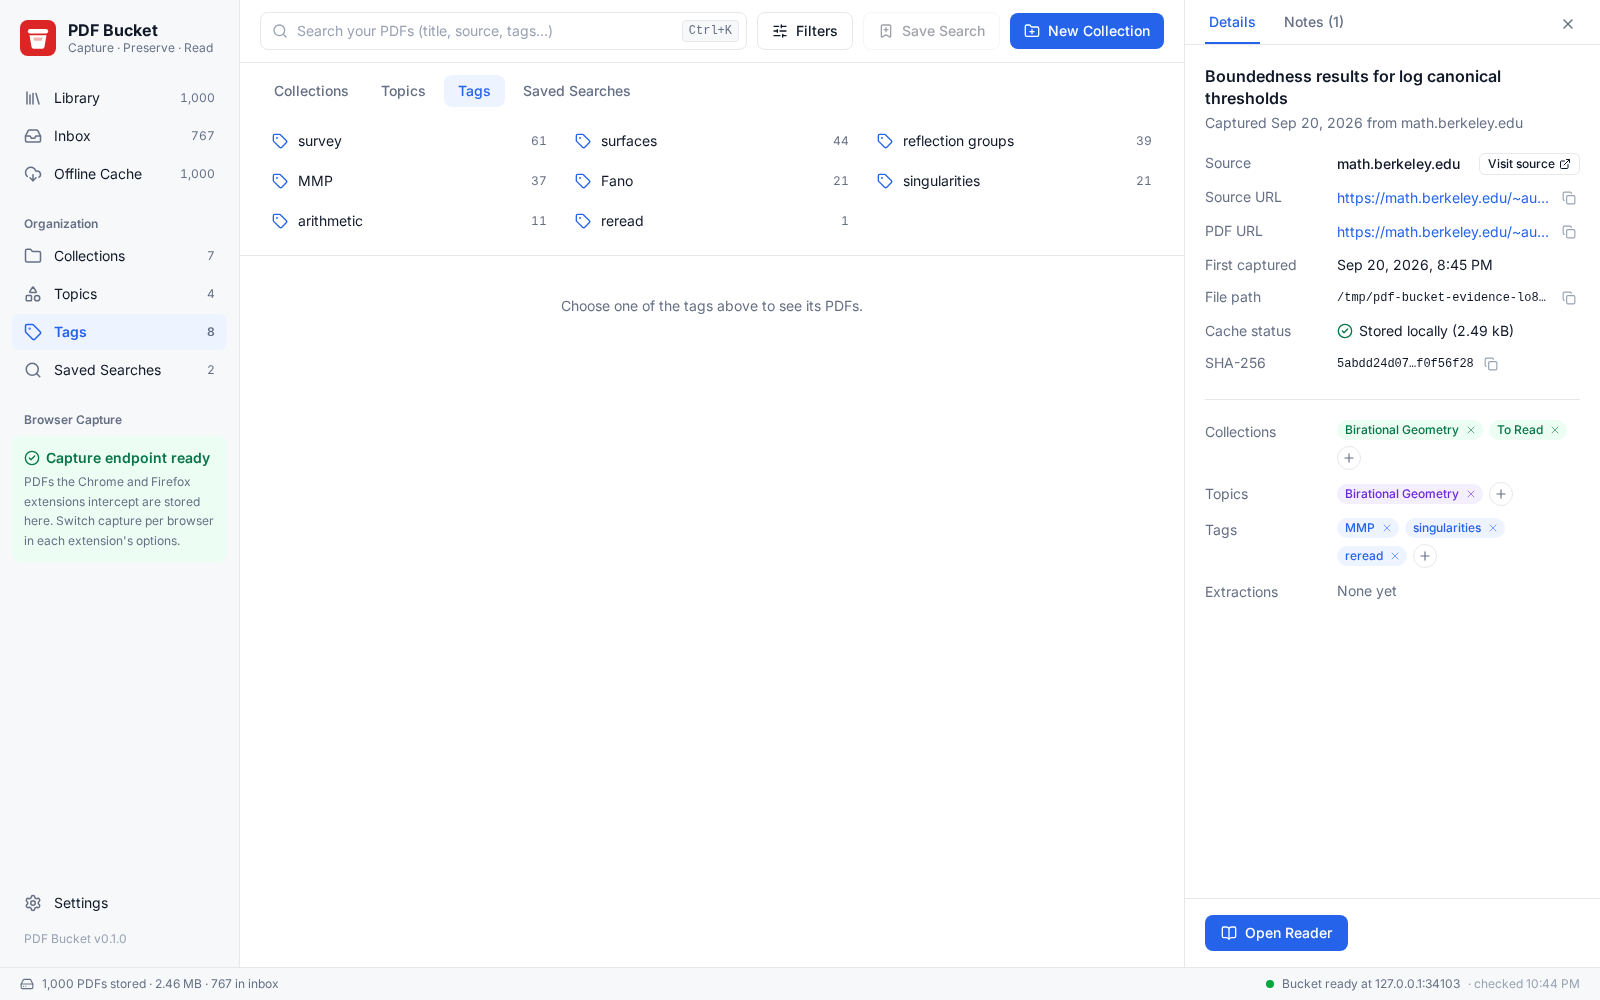
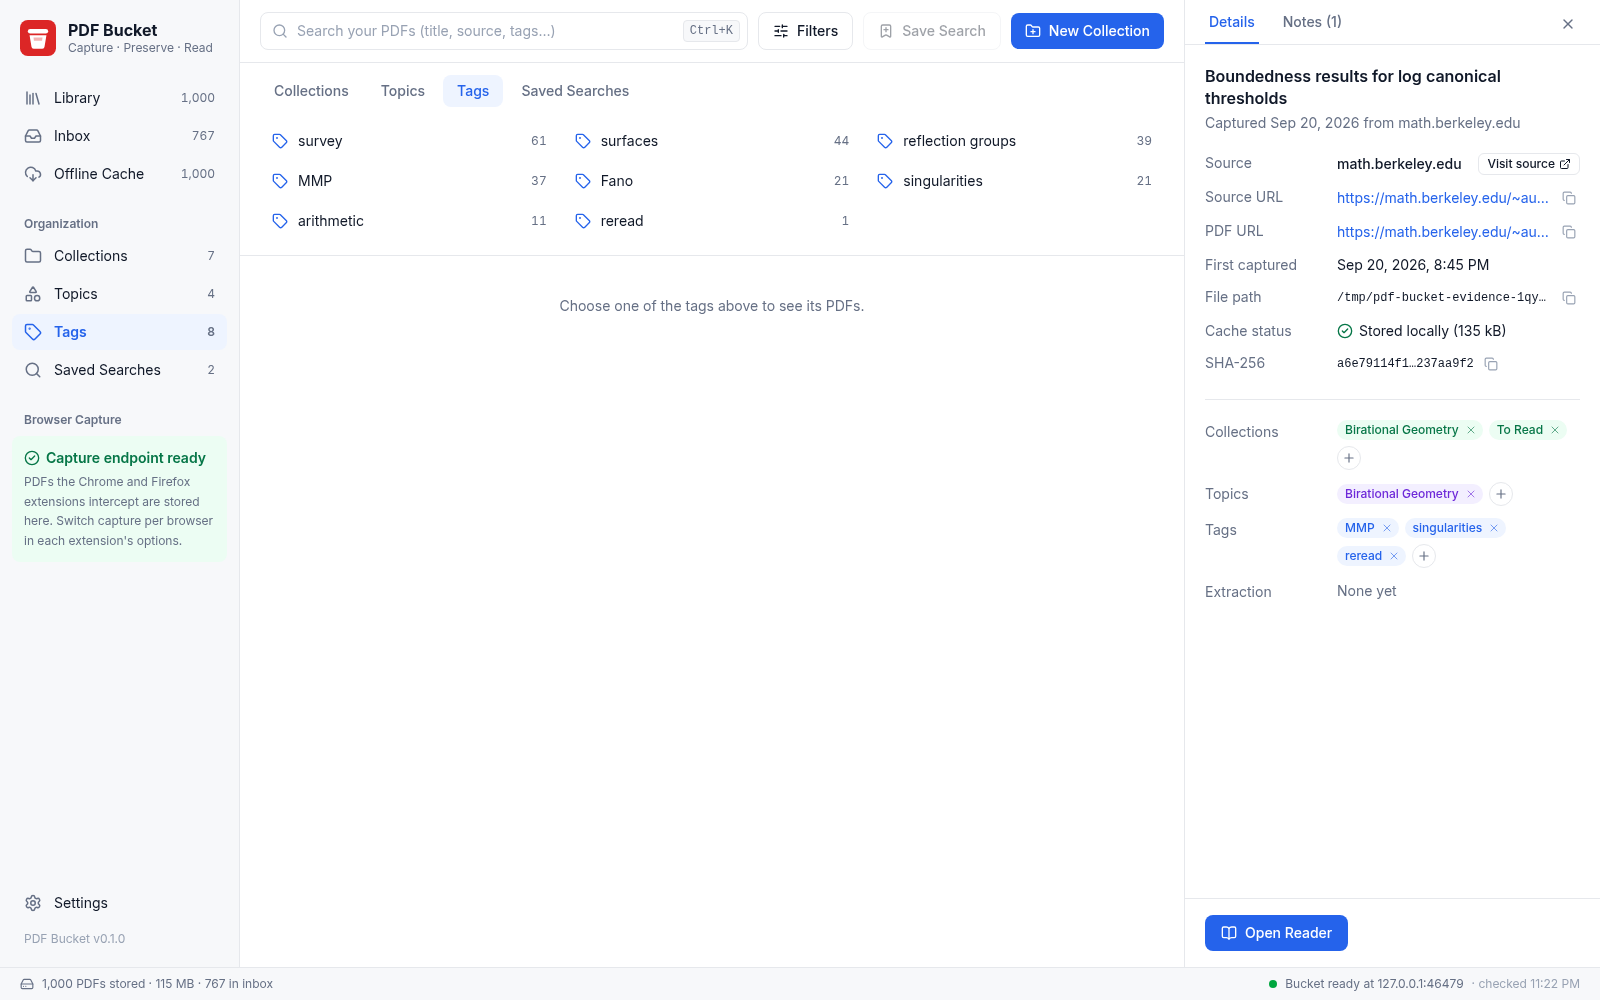
test(evidence): seed from committed fixture PDFs, use the system Chromium
The 1,000-item seed stores copies of the four committed fixture PDFs,
each under its own document title, instead of generated one-page
PDFs, and the screenshot run drives the system Chromium instead of
downloading Playwright's build, so the evidence run needs nothing from
the network, the user's Zotero or browser profiles. The run also lays
the committed MinerU output beside one item as its extraction and
screenshots the inspector listing it.

docs/m2.md records the procedure, the load and filter times with the
fixture-sized store (first library read 1.12 s, cached 0.017 s, 1,000
rows in 0.56 s, filter 0.14 s), the extraction contract and the new
screenshots.

Refs #7

diff --git a/scripts/library_screenshots.py b/scripts/library_screenshots.py
@@ -6,10 +6,11 @@
 
 Builds three bucket roots in a temporary directory: an empty one, one holding a PDF without
 embedded provenance (the error state), and one seeded with 1,000 PDFs through the real store
-(`scripts/seed_bucket.py`). Serves each with `src/server/serveBucket.ts` on a free port, files
-part of the seeded library through the library API, then captures each screen in Playwright's
-Chromium and the library and reader in the system WebKitGTK (the engine of the desktop window)
-through WebKitWebDriver on a headless Weston. Prints the load and filter timings as JSON.
+(`scripts/seed_bucket.py`, from committed fixture PDFs). Serves each with
+`src/server/serveBucket.ts` on a free port, files part of the seeded library through the library
+API, lays the committed MinerU output beside one item as its extraction, then captures each
+screen in the system Chromium driven by Playwright, and the library and reader in the system
+WebKitGTK (the engine of the desktop window) through WebKitWebDriver on a headless Weston. Prints the load and filter timings as JSON.
 """
 
 from __future__ import annotations
@@ -18,7 +19,6 @@ import json
 import os
 import shutil
 import subprocess
-import sys
 import tempfile
 import time
 from contextlib import ExitStack
@@ -137,7 +137,30 @@ def file_library(origin: str, items: list[dict[str, object]]) -> dict[str, str]:
             "search": {"query": "survey lectures", "matchCase": False, "matchType": "any", "searchFields": fields},
         },
     )
-    return {"birational": birational, "saved": str(flips_search["id"]), "reader": str(recent[0]["id"]), "title": str(recent[0]["title"])}
+    return {
+        "birational": birational,
+        "saved": str(flips_search["id"]),
+        "reader": str(recent[0]["id"]),
+        "title": str(recent[0]["title"]),
+        "extracted": str(recent[1]["id"]),
+    }
+
+
+def place_extraction(root: Path, key: str) -> None:
+    """Lay out the committed MinerU output as the extraction runner does: artifacts first,
+    the Markdown last."""
+    shipped = REPO / "tests/fixtures/mineru-ten-page-notes"
+    (root / f"{key}.extraction").mkdir()
+    for name in ("content_list.json", "layout.json"):
+        shutil.copy(shipped / name, root / f"{key}.extraction" / name)
+    shutil.copy(shipped / "full.md", root / f"{key}.md")
+
+
+def system_chromium() -> str:
+    """The system Chromium, so the run downloads no browser."""
+    path = shutil.which("chromium")
+    assert path is not None, "chromium is not on PATH"
+    return path
 
 
 def shoot(page: Page, out: Path, name: str) -> None:
@@ -147,7 +170,7 @@ def shoot(page: Page, out: Path, name: str) -> None:
 def chromium_screens(out: Path, origins: dict[str, str], filed: dict[str, str]) -> dict[str, float]:
     timings: dict[str, float] = {}
     with sync_playwright() as playwright:
-        browser = playwright.chromium.launch()
+        browser = playwright.chromium.launch(executable_path=system_chromium())
         page = browser.new_page(viewport=VIEWPORT)
 
         page.goto(origins["empty"])
@@ -175,6 +198,11 @@ def chromium_screens(out: Path, origins: dict[str, str], filed: dict[str, str]) 
         page.get_by_role("row").filter(has_text=filed["title"]).first.click()
         page.get_by_role("complementary", name="Item details").wait_for()
         shoot(page, out, "library-populated")
+
+        page.get_by_role("row").nth(2).click()
+        page.get_by_role("complementary", name="Item details").get_by_text("content_list.json").wait_for()
+        shoot(page, out, "inspector-extraction")
+        page.get_by_role("row").filter(has_text=filed["title"]).first.click()
 
         page.get_by_role("tab", name="Notes").click()
         shoot(page, out, "inspector-notes")
@@ -289,7 +317,6 @@ def webkit_screens(stack: ExitStack, out: Path, origins: dict[str, str], filed: 
 def main(out: Path) -> None:
     """Write the screenshots into OUT and print the timings."""
     out.mkdir(parents=True, exist_ok=True)
-    subprocess.run([sys.executable, "-m", "playwright", "install", "chromium"], check=True)
     with ExitStack() as stack:
         scratch = Path(stack.enter_context(tempfile.TemporaryDirectory(prefix="pdf-bucket-evidence-")))
         roots = {name: scratch / name for name in ("empty", "broken", "seeded")}
@@ -317,6 +344,7 @@ def main(out: Path) -> None:
         assert isinstance(items, list)
         assert len(items) == SEEDED_COUNT, f"seeded library lists {len(items)} items"
         filed = file_library(origins["seeded"], items)
+        place_extraction(roots["seeded"], filed["extracted"])
 
         timings = {
             "seed_1000_pdfs_s": seed_seconds,

diff --git a/scripts/seed_bucket.py b/scripts/seed_bucket.py
@@ -1,9 +1,10 @@
-"""Seed a bucket root with COUNT generated PDFs, each stored through the real store.
+"""Seed a bucket root with COUNT PDFs made from committed fixtures, stored through the real store.
 
 Run inside the project environment: `uv run --locked python scripts/seed_bucket.py ROOT COUNT`.
-Every PDF is a one-page document whose text is its title; its provenance (PDF URL, source
-page, capture time, original hash) is embedded by `pdfbucket.store.store_pdf`, exactly as a
-browser capture would. Titles, sources and capture times are synthetic and deterministic.
+Every PDF is a copy of a committed fixture PDF (tests/fixtures) with its own document title;
+its provenance (PDF URL, source page, capture time, original hash) is embedded by
+`pdfbucket.store.store_pdf`, exactly as a browser capture would. Titles, sources and capture
+times are synthetic and deterministic.
 """
 
 from __future__ import annotations
@@ -58,30 +59,23 @@ SOURCES = [
     ("https://www.numdam.org/item/{id}/", "https://www.numdam.org/item/{id}.pdf"),
 ]
 NEWEST_CAPTURE = datetime(2026, 9, 20, 14, 30, tzinfo=UTC)
+FIXTURES = Path(__file__).resolve().parents[1] / "tests" / "fixtures"
+# Committed PDFs the seeded items are copies of; nothing is downloaded.
+FIXTURE_PDFS = ["lecture-notes.pdf", "ten-page-notes.pdf", "long-notes.pdf", "problem-set.pdf"]
 
 
-def title_page(title: str) -> bytes:
-    """A one-page PDF whose content stream sets TITLE in Helvetica."""
-    pdf = pikepdf.new()
-    escaped = title.replace("\\", "\\\\").replace("(", "\\(").replace(")", "\\)")
-    content = f"BT /F1 20 Tf 72 700 Td ({escaped}) Tj ET".encode("latin-1", "replace")
-    font = pikepdf.Dictionary(Type=pikepdf.Name.Font, Subtype=pikepdf.Name.Type1, BaseFont=pikepdf.Name.Helvetica)
-    page = pikepdf.Page(
-        pikepdf.Dictionary(
-            Type=pikepdf.Name.Page,
-            MediaBox=[0, 0, 612, 792],
-            Resources=pikepdf.Dictionary(Font=pikepdf.Dictionary(F1=font)),
-            Contents=pdf.make_stream(content),
-        )
-    )
-    pdf.pages.append(page)
+def titled_copy(fixture: bytes, title: str) -> bytes:
+    """The committed fixture PDF with TITLE as its document title, so each seeded PDF has its own bytes."""
     output = BytesIO()
-    pdf.save(output)
+    with pikepdf.open(BytesIO(fixture)) as pdf:
+        pdf.docinfo["/Title"] = title
+        pdf.save(output)
     return output.getvalue()
 
 
 def seed(root: Path, count: int) -> None:
     rng = random.Random(8)
+    fixtures = [(FIXTURES / name).read_bytes() for name in FIXTURE_PDFS]
     root.mkdir(parents=True, exist_ok=True)
     for index in range(count):
         title = rng.choice(CLAIMS).format(subject=rng.choice(SUBJECTS), n=rng.randint(2, 24))
@@ -93,7 +87,8 @@ def seed(root: Path, count: int) -> None:
             title_hint=title,
         )
         captured_at = NEWEST_CAPTURE - timedelta(hours=index * 7 + rng.randint(0, 6), minutes=rng.randint(0, 59))
-        store_pdf(root, title_page(title), request, f"{identifier}.pdf", captured_at)
+        fixture = fixtures[index % len(fixtures)]
+        store_pdf(root, titled_copy(fixture, title), request, f"{identifier}.pdf", captured_at)
 
 
 if __name__ == "__main__":

diff --git a/docs/m2.md b/docs/m2.md
@@ -1,6 +1,6 @@
 # M2 evidence: library UI over the bucket store
 
-Recorded on 2026-09-23 on the development workstation (Arch Linux, WebKitGTK 2.52.6, Playwright Chromium build 1243).
+Recorded on 2026-09-23 on the development workstation (Arch Linux, WebKitGTK 2.52.6, Chromium 153 driven by Playwright).
 
 ## How the evidence is produced
 
@@ -10,30 +10,32 @@ $ just library-screenshots
 
 The recipe builds the web bundle, then `scripts/library_screenshots.py`:
 
-1. makes three bucket roots in a temporary directory: an empty one; one holding `hand-copied.pdf`, a PDF with no embedded provenance; and one seeded with 1,000 PDFs by `scripts/seed_bucket.py`, which stores generated one-page PDFs through `pdfbucket.store.store_pdf`, so each carries embedded provenance exactly as a capture does;
+1. makes three bucket roots in a temporary directory: an empty one; one holding `hand-copied.pdf`, a PDF with no embedded provenance; and one seeded with 1,000 PDFs by `scripts/seed_bucket.py`, which stores copies of the committed fixture PDFs in `tests/fixtures`, each under its own title, through `pdfbucket.store.store_pdf`, so each carries embedded provenance exactly as a capture does (nothing is downloaded);
 
 2. serves each root with `src/server/serveBucket.ts` on a free port (never the configured 8770);
 
 3. files the 300 most recent seeded items through the library API: six collections (two of them subcollections), four topics, seven tags, two notes, two saved searches;
 
-4. screenshots every state in Playwright's Chromium at 1600x1000, the mockups' size;
+4. lays the committed MinerU output (`tests/fixtures/mineru-ten-page-notes`) beside one item the way the extraction runner does, artifacts first and the Markdown last;
 
-5. screenshots the library and the reader in the system WebKitGTK, the engine of the Tauri window, through `WebKitWebDriver` on a headless Weston display of 1400x900, the window's default size.
+5. screenshots every state in the system Chromium, driven by Playwright, at 1600x1000, the mockups' size;
+
+6. screenshots the library and the reader in the system WebKitGTK, the engine of the Tauri window, through `WebKitWebDriver` on a headless Weston display of 1400x900, the window's default size.
 
 Playwright's own WebKit build is not used: its Linux build needs Ubuntu 24.04 libraries (ICU 74, `libxml2.so.2`, flite) that Arch does not ship.
 
 ## 1,000-item load and filter times
 
-Seconds, from the run that produced the screenshots below and from a run on an idle machine.
+Seconds, from the run that produced the screenshots below (the seeded PDFs are copies of the four committed fixtures, 1 to 210 pages, 115 MB in all).
 
-| Measurement | Screenshot run | Idle run |
-| --- | --- | --- |
-| Seed 1,000 PDFs through the store | 4.25 | 1.59 |
-| `pdfbucket list` over 1,000 PDFs (one process) | 1.14 | 0.37 |
-| `GET /api/library`, first request (index built from the files) | 1.18 | 0.38 |
-| `GET /api/library`, second request (index cached, files re-stat'ed) | 0.020 | 0.013 |
-| Window navigation to all 1,000 rows in the table | 0.46 | 0.38 |
-| Typing a two-word filter until the table shows the matches | 0.16 | 0.08 |
+| Measurement | Seconds |
+| --- | --- |
+| Seed 1,000 PDFs through the store | 6.41 |
+| `pdfbucket list` over 1,000 PDFs (one process) | 0.97 |
+| `GET /api/library`, first request (index built from the files) | 1.12 |
+| `GET /api/library`, second request (index cached, files re-stat'ed) | 0.017 |
+| Window navigation to all 1,000 rows in the table | 0.56 |
+| Typing a two-word filter until the table shows the matches | 0.14 |
 
 The first request reads provenance out of every PDF; later requests re-read only PDFs whose modification time or size changed.
 Filtering is the fzf filter over the item array in the browser; there is no search index.
@@ -67,6 +69,11 @@ Differences are listed under [Mockup elements not reproduced](#mockup-elements-n
 Filtering, the filters dialog, the notes tab, adding a tag from the inspector:
 
 ![Filtered library](m2/library-filtered.png) ![Filters dialog](m2/filters.png) ![Notes tab](m2/inspector-notes.png) ![A tag added from the inspector](m2/inspector-tag-added.png)
+
+An item's extraction is derived from the files beside its PDF, never stored in the filing: `<key>.md` is the Markdown and marks a complete extraction, `<key>.extraction/` holds the further artifacts, and no Markdown means no extraction.
+The inspector lists the Markdown and each artifact with its size:
+
+![Extraction listed in the inspector](m2/inspector-extraction.png)
 
 The command palette, items and commands:
 
